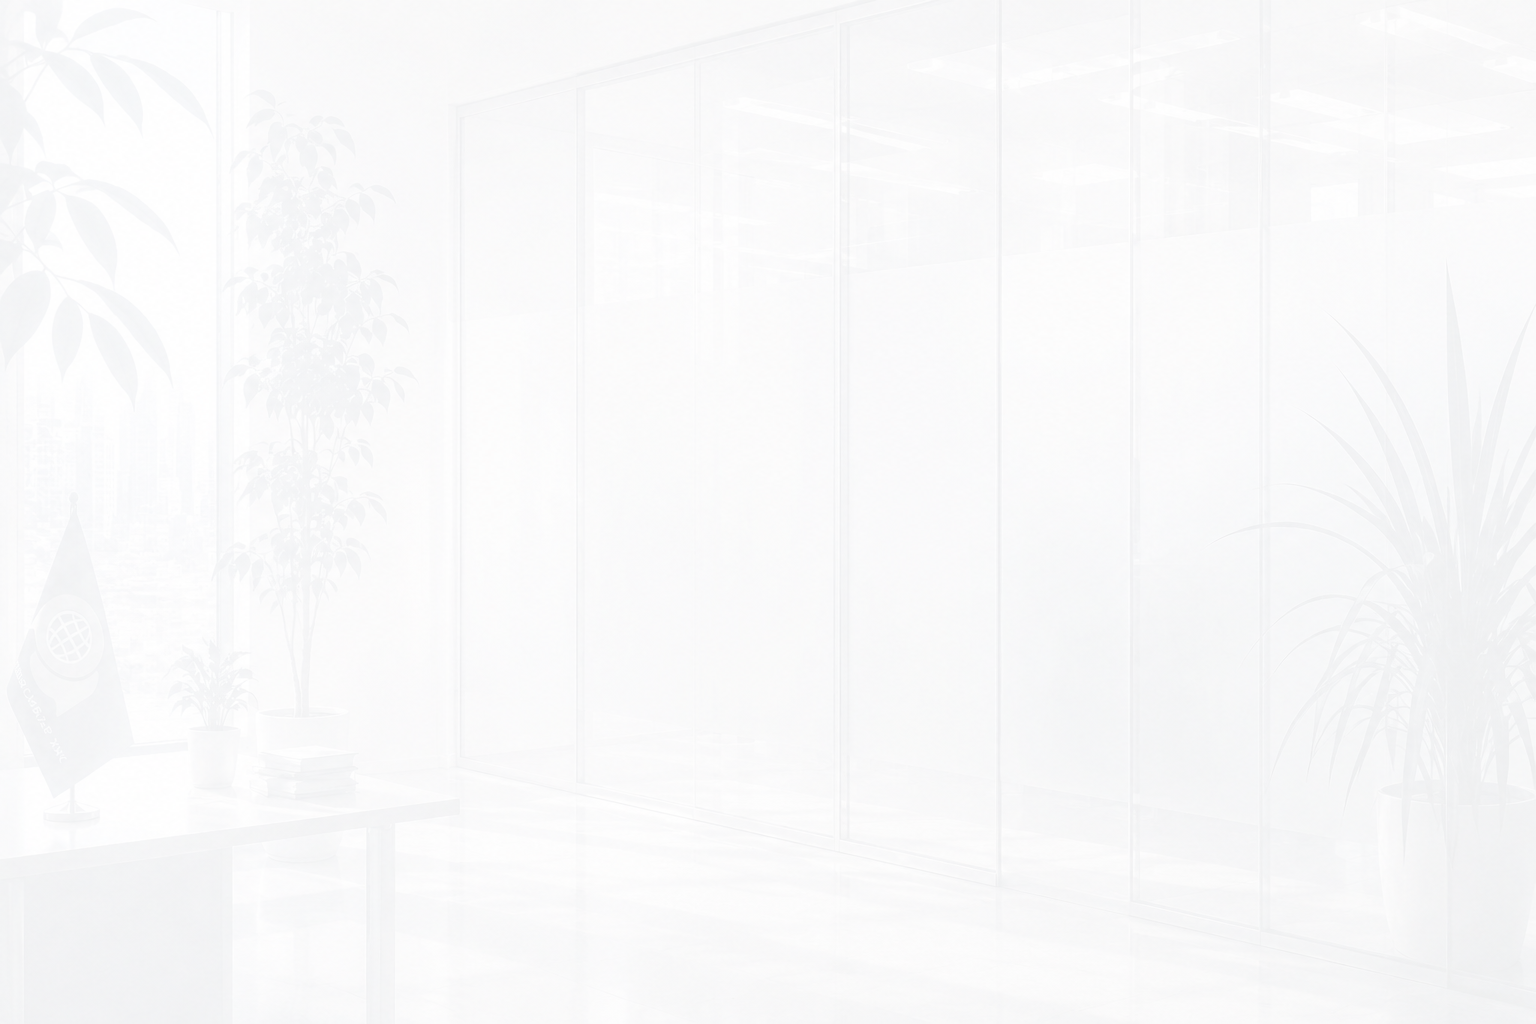
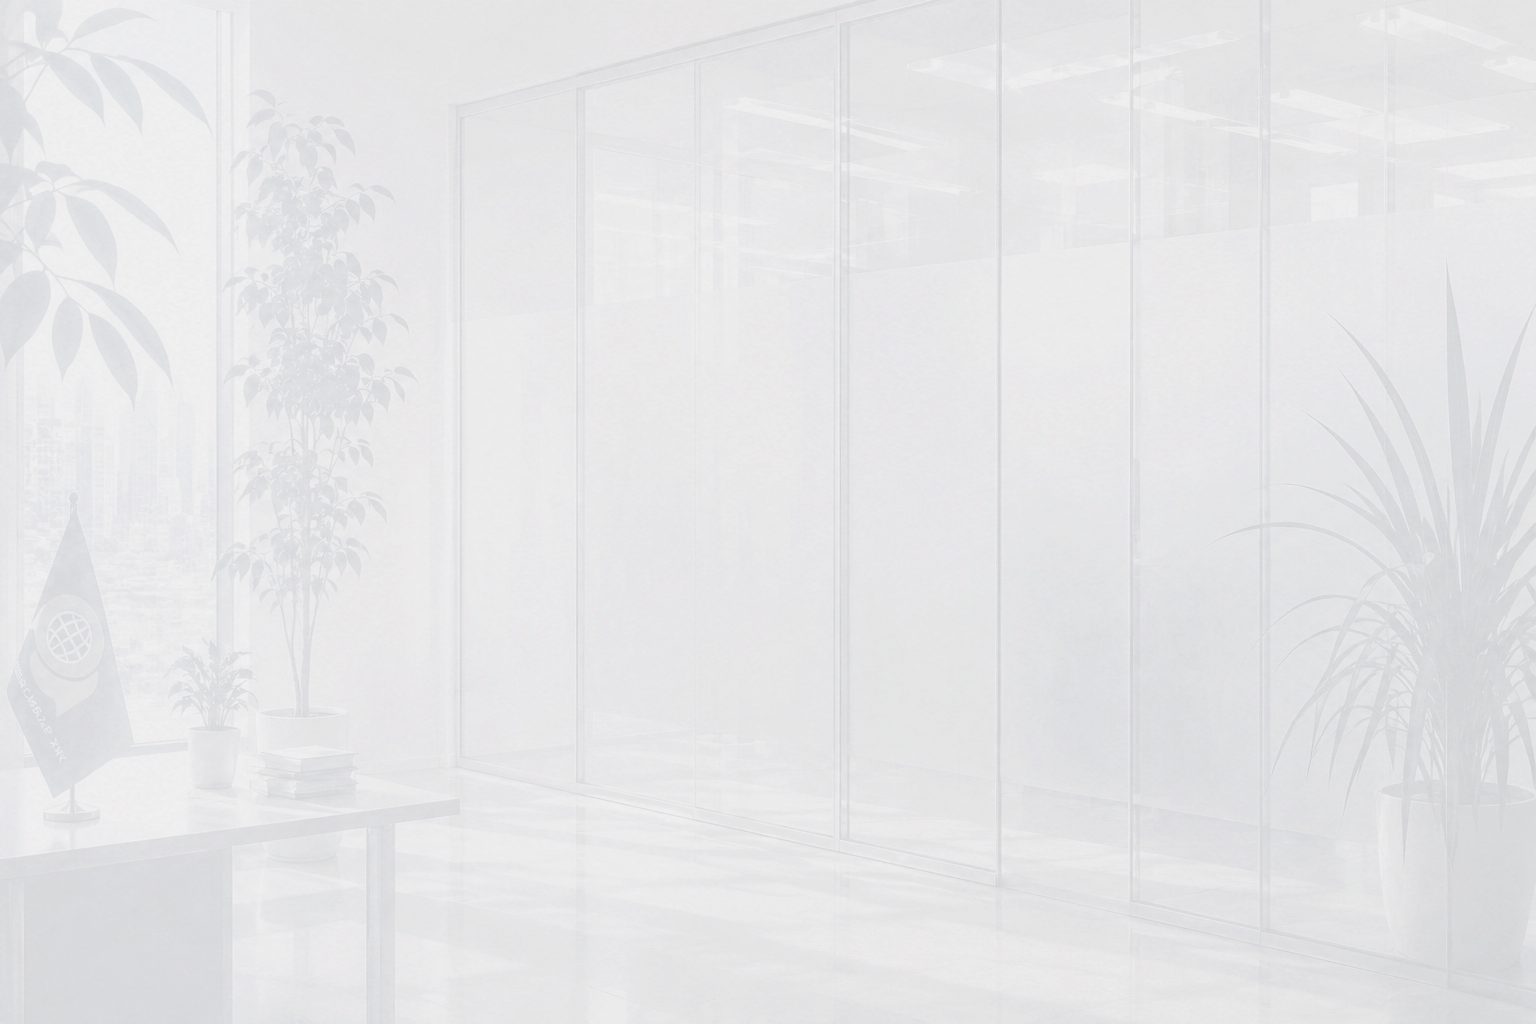
Add files via upload

diff --git a/order_process_cn.html b/order_process_cn.html
@@ -93,7 +93,7 @@
     <link href="https://fonts.googleapis.com/css2?family=Montserrat:wght@700;800&display=swap" rel="stylesheet">
     <style>
         * { box-sizing: border-box; }
-        body { margin: 0; font-family: 'Segoe UI', Tahoma, Geneva, Verdana, sans-serif; background: #ffffff url('https://translationboard.mn/OfficeLAPTOP.png') no-repeat center top; background-size: cover; background-attachment: fixed; color: #1a2b3c; }
+        body { margin: 0; font-family: 'Segoe UI', Tahoma, Geneva, Verdana, sans-serif; background: #ffffff url('https://translationboard.mn/OfficeLAPTOP.webp') no-repeat center top; background-size: cover; background-attachment: fixed; color: #1a2b3c; }
         .m-header { background: #000; color: #fff; padding: 10px 20px; display: flex; justify-content: space-between; align-items: center; position: sticky; top: 0; z-index: 1000; border-bottom: 1px solid #222; }
         .brand { font-size: 14px; font-weight: 700; letter-spacing: 0.8px; text-transform: uppercase; white-space: nowrap; overflow: hidden; text-overflow: ellipsis; max-width: calc(100% - 58px); }
         #menu-icon { cursor: pointer; display: flex; flex-direction: column; justify-content: space-between; width: 22px; height: 14px; position: relative; z-index: 1001; flex-shrink: 0; }

diff --git a/order_process_en.html b/order_process_en.html
@@ -93,7 +93,7 @@
     <link href="https://fonts.googleapis.com/css2?family=Montserrat:wght@700;800&display=swap" rel="stylesheet">
     <style>
         * { box-sizing: border-box; }
-        body { margin: 0; font-family: 'Segoe UI', Tahoma, Geneva, Verdana, sans-serif; background: #ffffff url('https://translationboard.mn/OfficeLAPTOP.png') no-repeat center top; background-size: cover; background-attachment: fixed; color: #1a2b3c; }
+        body { margin: 0; font-family: 'Segoe UI', Tahoma, Geneva, Verdana, sans-serif; background: #ffffff url('https://translationboard.mn/OfficeLAPTOP.webp') no-repeat center top; background-size: cover; background-attachment: fixed; color: #1a2b3c; }
         .m-header { background: #000; color: #fff; padding: 10px 20px; display: flex; justify-content: space-between; align-items: center; position: sticky; top: 0; z-index: 1000; border-bottom: 1px solid #222; }
         .brand { font-size: 14px; font-weight: 700; letter-spacing: 0.8px; text-transform: uppercase; white-space: nowrap; overflow: hidden; text-overflow: ellipsis; max-width: calc(100% - 58px); }
         #menu-icon { cursor: pointer; display: flex; flex-direction: column; justify-content: space-between; width: 22px; height: 14px; position: relative; z-index: 1001; flex-shrink: 0; }

diff --git a/order_process_mn.html b/order_process_mn.html
@@ -93,7 +93,7 @@
     <link href="https://fonts.googleapis.com/css2?family=Montserrat:wght@700;800&display=swap" rel="stylesheet">
     <style>
         * { box-sizing: border-box; }
-        body { margin: 0; font-family: 'Segoe UI', Tahoma, Geneva, Verdana, sans-serif; background: #ffffff url('https://translationboard.mn/OfficeLAPTOP.png') no-repeat center top; background-size: cover; background-attachment: fixed; color: #1a2b3c; }
+        body { margin: 0; font-family: 'Segoe UI', Tahoma, Geneva, Verdana, sans-serif; background: #ffffff url('https://translationboard.mn/OfficeLAPTOP.webp') no-repeat center top; background-size: cover; background-attachment: fixed; color: #1a2b3c; }
         .m-header { background: #000; color: #fff; padding: 10px 20px; display: flex; justify-content: space-between; align-items: center; position: sticky; top: 0; z-index: 1000; border-bottom: 1px solid #222; }
         .brand { font-size: 14px; font-weight: 700; letter-spacing: 0.8px; text-transform: uppercase; white-space: nowrap; overflow: hidden; text-overflow: ellipsis; max-width: calc(100% - 58px); }
         #menu-icon { cursor: pointer; display: flex; flex-direction: column; justify-content: space-between; width: 22px; height: 14px; position: relative; z-index: 1001; flex-shrink: 0; }

diff --git a/order_process_mobile_cn.html b/order_process_mobile_cn.html
@@ -94,7 +94,7 @@
     <style>
         html { -webkit-text-size-adjust: 100%; text-size-adjust: 100%; }
         * { box-sizing: border-box; }
-        body { margin: 0; font-family: 'Segoe UI', Tahoma, Geneva, Verdana, sans-serif; background: #ffffff url('https://translationboard.mn/Office1.png') no-repeat center top; background-size: cover; background-attachment: fixed; color: #1a2b3c; }
+        body { margin: 0; font-family: 'Segoe UI', Tahoma, Geneva, Verdana, sans-serif; background: #ffffff url('https://translationboard.mn/Office1.webp') no-repeat center top; background-size: cover; background-attachment: fixed; color: #1a2b3c; }
         .m-header { background: #000; color: #fff; padding: 10px 20px; display: flex; justify-content: space-between; align-items: center; position: sticky; top: 0; z-index: 1000; border-bottom: 1px solid #222; }
         .brand { font-size: 14px; font-weight: 700; letter-spacing: 0.8px; text-transform: uppercase; white-space: nowrap; overflow: hidden; text-overflow: ellipsis; max-width: calc(100% - 58px); }
         #menu-icon { cursor: pointer; display: flex; flex-direction: column; justify-content: space-between; width: 22px; height: 14px; position: relative; z-index: 1001; flex-shrink: 0; }

diff --git a/order_process_mobile_en.html b/order_process_mobile_en.html
@@ -94,7 +94,7 @@
     <style>
         html { -webkit-text-size-adjust: 100%; text-size-adjust: 100%; }
         * { box-sizing: border-box; }
-        body { margin: 0; font-family: 'Segoe UI', Tahoma, Geneva, Verdana, sans-serif; background: #ffffff url('https://translationboard.mn/Office1.png') no-repeat center top; background-size: cover; background-attachment: fixed; color: #1a2b3c; }
+        body { margin: 0; font-family: 'Segoe UI', Tahoma, Geneva, Verdana, sans-serif; background: #ffffff url('https://translationboard.mn/Office1.webp') no-repeat center top; background-size: cover; background-attachment: fixed; color: #1a2b3c; }
         .m-header { background: #000; color: #fff; padding: 10px 20px; display: flex; justify-content: space-between; align-items: center; position: sticky; top: 0; z-index: 1000; border-bottom: 1px solid #222; }
         .brand { font-size: 14px; font-weight: 700; letter-spacing: 0.8px; text-transform: uppercase; white-space: nowrap; overflow: hidden; text-overflow: ellipsis; max-width: calc(100% - 58px); }
         #menu-icon { cursor: pointer; display: flex; flex-direction: column; justify-content: space-between; width: 22px; height: 14px; position: relative; z-index: 1001; flex-shrink: 0; }

diff --git a/order_process_mobile_mn.html b/order_process_mobile_mn.html
@@ -94,7 +94,7 @@
     <style>
         html { -webkit-text-size-adjust: 100%; text-size-adjust: 100%; }
         * { box-sizing: border-box; }
-        body { margin: 0; font-family: 'Segoe UI', Tahoma, Geneva, Verdana, sans-serif; background: #ffffff url('https://translationboard.mn/Office1.png') no-repeat center top; background-size: cover; background-attachment: fixed; color: #1a2b3c; }
+        body { margin: 0; font-family: 'Segoe UI', Tahoma, Geneva, Verdana, sans-serif; background: #ffffff url('https://translationboard.mn/Office1.webp') no-repeat center top; background-size: cover; background-attachment: fixed; color: #1a2b3c; }
         .m-header { background: #000; color: #fff; padding: 10px 20px; display: flex; justify-content: space-between; align-items: center; position: sticky; top: 0; z-index: 1000; border-bottom: 1px solid #222; }
         .brand { font-size: 14px; font-weight: 700; letter-spacing: 0.8px; text-transform: uppercase; white-space: nowrap; overflow: hidden; text-overflow: ellipsis; max-width: calc(100% - 58px); }
         #menu-icon { cursor: pointer; display: flex; flex-direction: column; justify-content: space-between; width: 22px; height: 14px; position: relative; z-index: 1001; flex-shrink: 0; }

diff --git a/mobile.html b/mobile.html
@@ -81,7 +81,7 @@
             margin: 0; 
             padding: 0; 
             /* Указываем точный путь к картинке на сервере translationboard.mn */
-            background: #ffffff url('https://translationboard.mn/Office1.png') no-repeat center top; 
+            background: #ffffff url('https://translationboard.mn/Office1.webp') no-repeat center top; 
             background-size: cover; 
             background-attachment: fixed; 
             text-align: center; 

diff --git a/mobile_cn.html b/mobile_cn.html
@@ -80,7 +80,7 @@
             margin: 0; 
             padding: 0; 
             /* Указываем точный путь к картинке на сервере translationboard.mn */
-            background: #ffffff url('https://translationboard.mn/Office1.png') no-repeat center top; 
+            background: #ffffff url('https://translationboard.mn/Office1.webp') no-repeat center top; 
             background-size: cover; 
             background-attachment: fixed; 
             text-align: center; 

diff --git a/mobile_ru.html b/mobile_ru.html
@@ -81,7 +81,7 @@
             margin: 0; 
             padding: 0; 
             /* Указываем точный путь к картинке на сервере translationboard.mn */
-            background: #ffffff url('https://translationboard.mn/Office1.png') no-repeat center top; 
+            background: #ffffff url('https://translationboard.mn/Office1.webp') no-repeat center top; 
             background-size: cover; 
             background-attachment: fixed; 
             text-align: center; 

diff --git a/index.html b/index.html
@@ -82,7 +82,7 @@
             margin: 0; 
             padding: 0; 
             /* Подключаем десктопный фон с сервера translationboard.mn */
-            background: #ffffff url('https://translationboard.mn/OfficeLAPTOP.png') no-repeat center top; 
+            background: #ffffff url('https://translationboard.mn/OfficeLAPTOP.webp') no-repeat center top; 
             background-size: cover; 
             background-attachment: fixed; 
             text-align: center; 

diff --git a/index_en.html b/index_en.html
@@ -78,7 +78,7 @@
             margin: 0; 
             padding: 0; 
             /* Подключаем десктопный фон с сервера translationboard.mn */
-            background: #ffffff url('https://translationboard.mn/OfficeLAPTOP.png') no-repeat center top; 
+            background: #ffffff url('https://translationboard.mn/OfficeLAPTOP.webp') no-repeat center top; 
             background-size: cover; 
             background-attachment: fixed; 
             text-align: center; 

diff --git a/mobile_en.html b/mobile_en.html
@@ -73,7 +73,7 @@
         margin: 0; 
         padding: 0; 
         /* Указываем точный путь к картинке на сервере translationboard.mn */
-        background: #ffffff url('https://translationboard.mn/Office1.png') no-repeat center top; 
+        background: #ffffff url('https://translationboard.mn/Office1.webp') no-repeat center top; 
         background-size: cover; 
         background-attachment: fixed; 
         text-align: center; 
